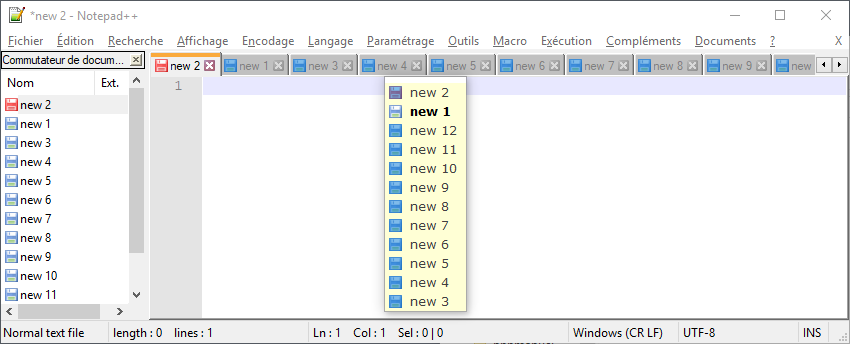
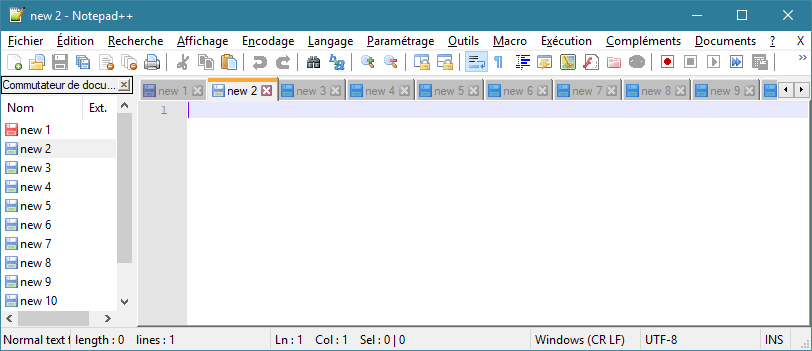
update interface images to 815px, animated main window image

diff --git a/_pages/commutateur-de-document.md b/_pages/commutateur-de-document.md
@@ -2,10 +2,12 @@
 layout: default
 title: Commutateur de document
 ---
-Le commutateur de document est un panneau de l'[interface](interface.md) listant les documents ouverts et permettant de naviguer entre eux. Il peut servir d'alternative aux onglets.
+Le commutateur de document est un panneau de l'[interface](interface.md) ou une liste flottante listant les documents ouverts et permettant de naviguer entre eux. Il peut servir d'alternative aux onglets.
 
-Il peut s'activer dans les [préférences générales](preferences/general.md).
+Le panneau peut s'activer dans les [préférences générales](preferences/general.md).
+
+![Le commutateur de document](/images/npp_document-switcher.png)
 
 Les [raccourcis clavier](raccourcis-clavier.md) par défaut <kbd>Ctrl</kbd>+<kbd>Tab</kbd> et <kbd>Ctrl</kbd>+<kbd>Shift</kbd>+<kbd>Tab</kbd> permettent de naviguer entre les documents ouverts au moyen d'un mini-version du commutateur de document qui peut être désactivé ou paramétré dans les [préférences diverses](preferences/divers.md).
 
-![Le commutateur de document](/images/npp_document-switcher.png)
+![Le mini-commutateur de document](/images/npp_document-switcher-tab.png)

diff --git a/_pages/interface.md b/_pages/interface.md
@@ -6,7 +6,7 @@ Notepad++ se compose d'une fenêtre unique dont la plupart des éléments peuven
 
 ![Notepad++ version plus plus](/images/npp_interface_minimal.png)
 
-En affichant ses barres et panneaux, en activant ses [options diverses](preferences/divers.md) et en utilisant des [plugins](plugins.md) (ici [NppFTP](plugins/nppftp.md)), l'interface peut-être plus complexe.
+En affichant ses barres et panneaux, en activant ses [options diverses](preferences/divers.md) et en changeant de [thème](themes.md) l'interface peut-être plus complexe.
 
 ![Notepad++ version moins moins](/images/npp_interface_complex.png)
 
@@ -50,9 +50,7 @@ La zone d'édition peut être scindées en deux vues distinctes, à la manière 
 
 *Affichage* -> *Déplacer/cloner le document actuel*
 
-![Deux documents dans deux vues](/images/npp_vues.png)
-
-![Un document cloné](/images/npp_vues_clone.png)
+![Document cloné](/images/npp_interface_views.png)
 
 La séparation entre les deux vues peut être déplacée avec la souris pour laisser plus d'espace à l'une ou l'autre.
 

diff --git a/_pages/sommaire-complet.md b/_pages/sommaire-complet.md
@@ -11,8 +11,8 @@ imageslist: true
 
 ## Liste des images
 
-Les captures sont faites avec Notepad++ en Français, et mises à jour si possible sous la dernière version de Notepad++ et de Windows. Les captures de la fenêtre principale sont standardisées à 850px de large et de faible hauteur, pour pouvoir s'afficher entièrement au sein d'un corps de texte.
+Les captures sont faites avec Notepad++ en Français, et mises à jour si possible sous la dernière version de Notepad++ et de Windows. Les captures de la fenêtre principale sont standardisées à la largeur minimum à laquelle la barre de menu s'affiche encore sur une ligne (815px environ) et à une hauteur réduite, pour pouvoir s'afficher entièrement au sein d'un corps de texte.
 
-Les images récentes ont une nomenclature standardisée de type `npp_subject_vue.png`.
+Les images récentes ont une nomenclature standardisée de type `npp_subject.png`.
 
 <!-- imageslist -->

diff --git a/_pages/notepad++.md b/_pages/notepad++.md
@@ -6,7 +6,7 @@ Notepad++ est un éditeur de texte léger, libre et gratuit pour Windows. Altern
 
 Un Notepad "*plus plus*", codé en C++.
 
-![Fenêtre de notepad++](/images/npp_interface.png)
+![Fenêtre de notepad++](/images/npp_interface.gif)
 
 ## Auteurs
 
